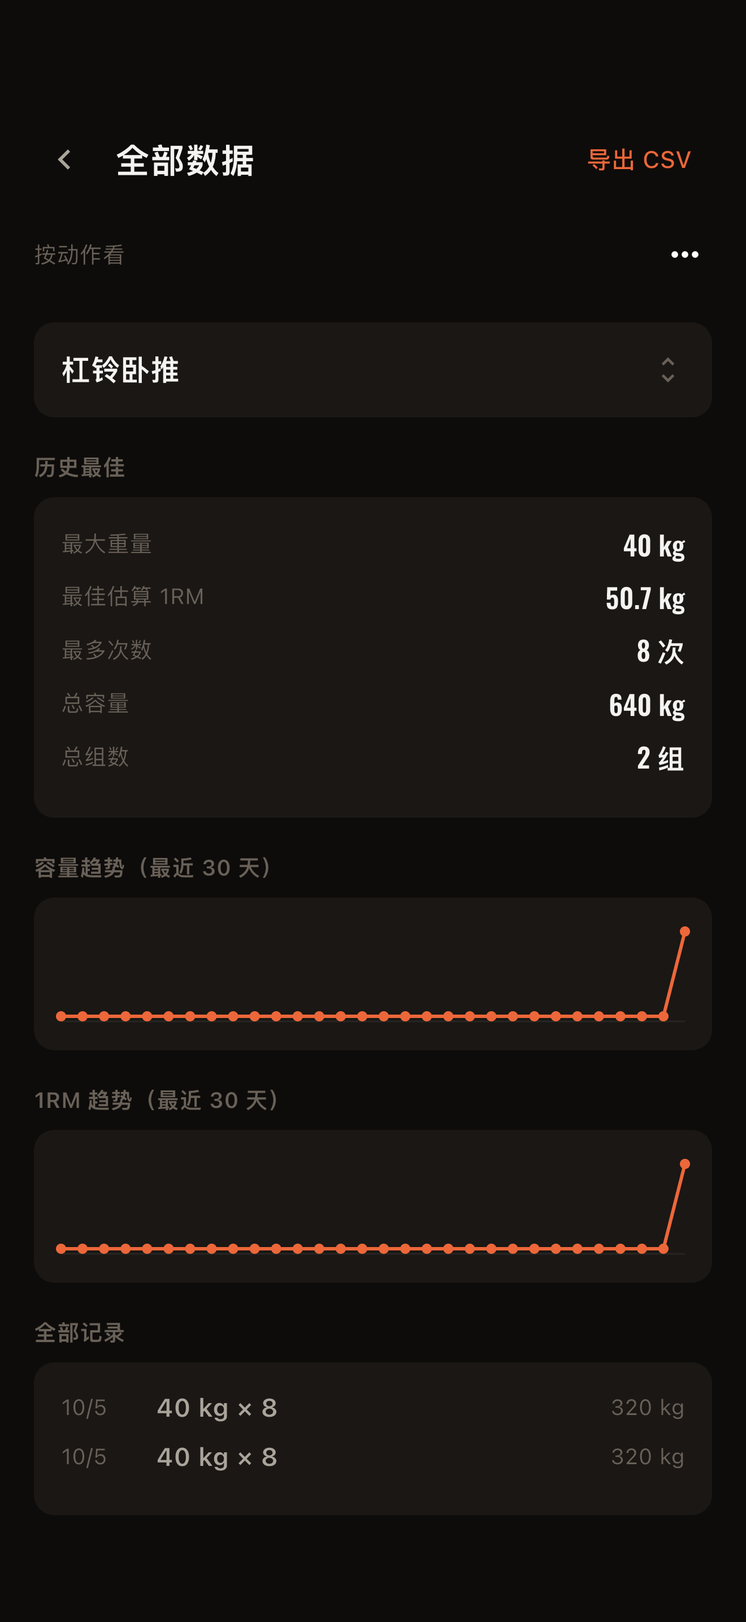
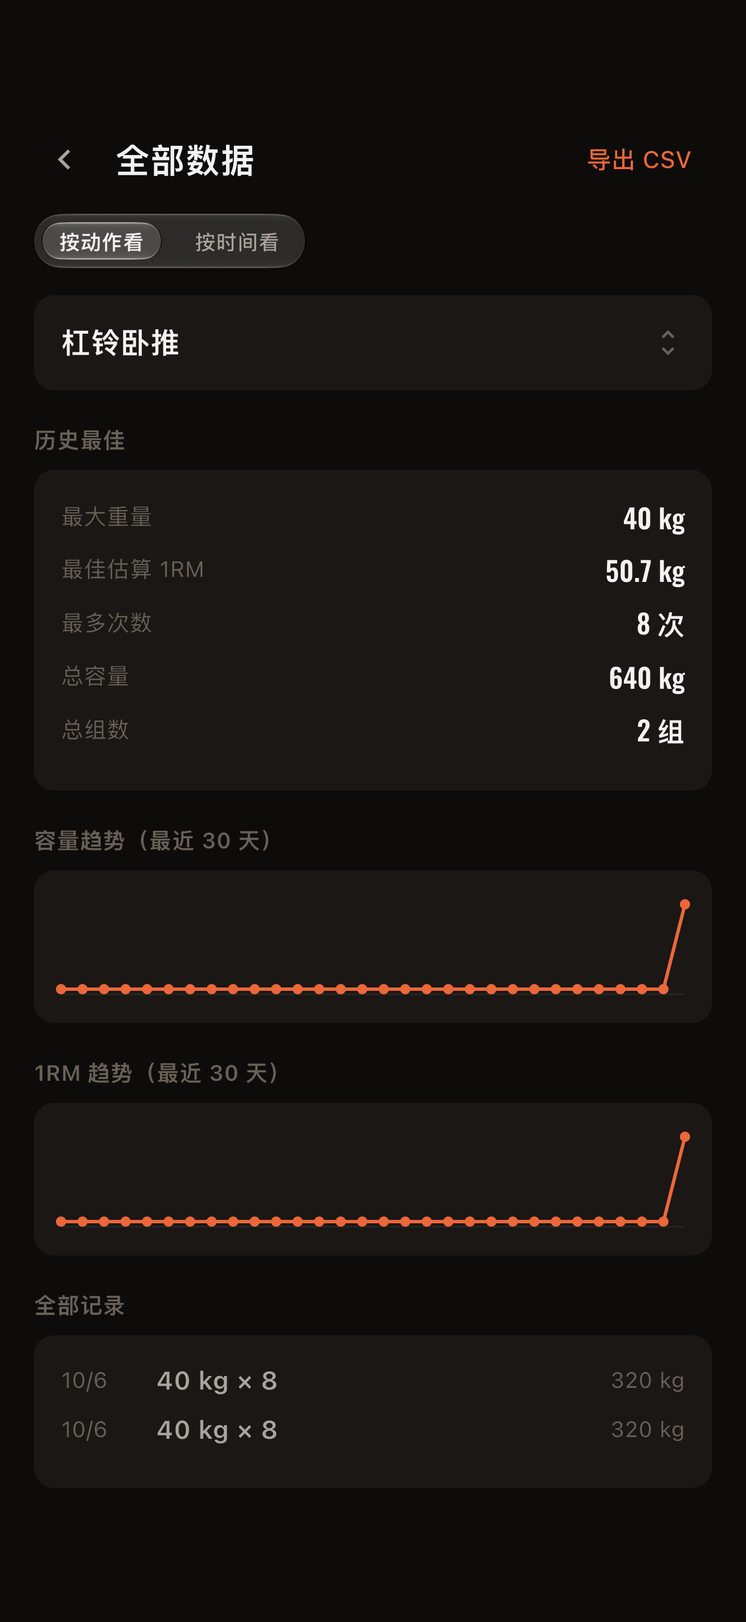
三套商店截图在 v1.54.0 上重出（起因：维度切换改成明面分段控件，安卓也变了）
* 国内 1080×2400 16 张 · Play 1080×1920 15 张 · App Store 1320×2868 15 张（过 flatten 压平）；
  三套都走"先卸载再跑"，否则引导页那一屏（商店首图）拍不到；check-screenshots 核过。
* ⚠ 记一次事故：重出脚本用 `adb devices` 的第一行取设备，而第一行是**用户真机**
  （Redmi 75caf509）—— 于是把它上面的 App **卸载了**，重装被 MIUI 的 USB 安装权限挡着
  （INSTALL_FAILED_USER_RESTRICTED）。教训写进 release-checklist 与脚本注释：
  **设备必须显式点名**。README/ROADMAP/release-checklist 里"真机装的是哪一版"三处
  也照实改成"Redmi 现在没装 + 怎么装回 + 数据用恢复码从云端取回"。

diff --git a/docs/release-checklist.md b/docs/release-checklist.md
@@ -322,7 +322,7 @@ cd .. && node tool/check-aab.mjs
 | 权限 | ✅ 源码 manifest **三项**（INTERNET + `WRITE_EXTERNAL_STORAGE` 限 API ≤29 + `POST_NOTIFICATIONS` —— 最后这条是 v1.42 的训练提醒带来的，API 33+ 走**运行时**请求、只在用户主动打开开关时问）。打包后多一条**隐含**的 `READ_EXTERNAL_STORAGE`（≤29，系统因 WRITE 授予，不是谁声明的）—— **已在政策与 `privacy-facts.json` 里逐条披露**（`privacy-audit --apk` 每次对账）。⚠ 这三条这个数字以前一直写着「两项/2 条」—— 加 `POST_NOTIFICATIONS` 那次**没同步改这里**，而 `privacy-audit` 只核「有没有披露」、不核「文档里数的是几条」，所以红不了。2026-10-05 对产物数出来才改 |
 | 隐私政策 | 🚧 中英文已成文、占位符已填；**待法务审核 + 公网 URL + 填生效日**。⚠ 云备份一旦上线，§3.1/§3.2 必须重写（数据**会**离机） |
 | 删除数据入口 | ✅ 已实现并测试。v1.22.0 补上了**条件式的云端删除**：有云备份账号时，弹层多问一句「同时删除云端备份并注销」（默认勾选），先删云端、失败则整个中止。**v1.30.0 起另有逐表核对 + 表清单守门**（`app/test/delete_all_test.dart`）：删除后除动作库外**每张表都必须是 0 行**（负向验证：把 `body_metric` 的删除拆掉 → 立刻红，报 `body_metric=1`）；库里新增/改名一张表而没更新那份清单 → 也红。这条正是删除权的失败方式：**新表忘了接，界面上看不出任何异常** |
-| 真机验证 | ✅ **iPhone 17 Pro 上跑的是 **v1.54.0**（`versionCode 69`，2026-10-06 `tool/ios-device-run.sh` 装包，正在验收液态玻璃）**。Redmi 那台**历史**上跑的是 v1.53.0（`versionCode 68`，2026-10-05 `adb install -r` 覆盖安装—— 同签名所以系统接受、数据保留；`dumpsys package` 读到 `versionName=1.52.0 / versionCode=67`，冷启动 `E/flutter` 0 条。✅ **v1.52 的界面与敏感信息同意门已在真机上走完**（详情与证据图见下面「真机 75caf509」那行）；没做的只剩「手感」那一条（只能人做）。**之前**那一版是 v1.47.0（`versionCode 66`），它**卸载重装**过一次：真 keystore 与旧包的 debug 签名不同，`install -r` 被系统直接拒（`INSTALL_FAILED_UPDATE_INCOMPATIBLE`）；冷启动无异常，`E/flutter` 0 条 / `overflowed` 0 条）。**2026-10-05 在真机上验了这一批**：① **当时的图标**（深底 + 白「练」+ volt 哑铃 —— 那是 v1.44.0 那版；**v1.45 起换成橙色圆环**）在启动器里就是它、名字「练了么」（`docs/images/launcher-icon-verified-redmi-v1440.png`）；② **卸载清空 → 用恢复码从云端取回**（这条路径此前只在模拟器上做过）：云备份页「已绑定这个恢复码」→「从云端恢复（合并，不覆盖本机）」→ **「已从云端恢复：已导入 2 次训练 / 2 组，置顶 0 个动作」**，「我」页训练统计回到 **2 次 / 2 组**（`docs/images/v144-cloud-restore-banner.png` · `docs/images/v144-cloud-restore-stats.png`）。**2026-10-04 在真机上验了这两批**：① 选择器**置顶**（钉一个 → 顶部「置顶」区 + 星标变实心 + 不再重复出现）；② **训练提醒**：打开开关 → 系统通知权限授予（`USER_SET`）→ `dumpsys alarm` 里出现 `RTC_WAKEUP …/.ReminderReceiver`（改时间时旧的那条被记为 `alarm_cancelled`）→ 到点后系统里真的出现了那条通知（`NotificationRecord … id=4702 channel=lianleme_training_reminder`，`vis=PUBLIC`）。⚠ 两次实测记下来：第一次晚 **2 分 26 秒**；第二次在**深度休眠**里被系统压住，直到**唤醒手机那一刻**才补发（非精确闹钟 + Doze 的真实行为）。⚠ **锁屏上那张图没拍到**：这台 MIUI 不渲染第三方通知（系统设置都允许，见 `docs/plan-scene-and-return.md` 的验证表）。⚠ 这一趟还**改了一处代码**：通知默认是 `VISIBILITY_PRIVATE`，安全锁屏下**整条不显示**（真机上"锁屏只有系统那条"就是这么来的）—— 提醒的价值就是"不打开 App 也看得见"，所以显式声明 `VISIBILITY_PUBLIC` 并重新出包重装。证据图 `docs/images/v142-01-reminder-permission.png` |
+| 真机验证 | ✅ **iPhone 17 Pro 上跑的是 **v1.54.0**（`versionCode 69`，2026-10-06 `tool/ios-device-run.sh` 装包，正在验收液态玻璃）**。⚠ **Redmi 那台现在没有安装**：2026-10-06 重出商店截图时脚本取设备取错了（`adb devices` 的第一台就是真机），把它上面的 App **卸载了**，而重装被 MIUI 挡着（`INSTALL_FAILED_USER_RESTRICTED`，得先在开发者选项里打开「USB 安装」）。打开后一条命令装回：`adb -s 75caf509 install -r dist/练了么-v1.54.0.apk`；本机数据用**恢复码从云端取回**（那条路 2026-10-05 已走通过）。，**历史**上跑的是（2026-10-05）v1.53.0—— 同签名所以系统接受、数据保留；`dumpsys package` 读到 `versionName=1.52.0 / versionCode=67`，冷启动 `E/flutter` 0 条。✅ **v1.52 的界面与敏感信息同意门已在真机上走完**（详情与证据图见下面「真机 75caf509」那行）；没做的只剩「手感」那一条（只能人做）。**之前**那一版是 v1.47.0（`versionCode 66`），它**卸载重装**过一次：真 keystore 与旧包的 debug 签名不同，`install -r` 被系统直接拒（`INSTALL_FAILED_UPDATE_INCOMPATIBLE`）；冷启动无异常，`E/flutter` 0 条 / `overflowed` 0 条）。**2026-10-05 在真机上验了这一批**：① **当时的图标**（深底 + 白「练」+ volt 哑铃 —— 那是 v1.44.0 那版；**v1.45 起换成橙色圆环**）在启动器里就是它、名字「练了么」（`docs/images/launcher-icon-verified-redmi-v1440.png`）；② **卸载清空 → 用恢复码从云端取回**（这条路径此前只在模拟器上做过）：云备份页「已绑定这个恢复码」→「从云端恢复（合并，不覆盖本机）」→ **「已从云端恢复：已导入 2 次训练 / 2 组，置顶 0 个动作」**，「我」页训练统计回到 **2 次 / 2 组**（`docs/images/v144-cloud-restore-banner.png` · `docs/images/v144-cloud-restore-stats.png`）。**2026-10-04 在真机上验了这两批**：① 选择器**置顶**（钉一个 → 顶部「置顶」区 + 星标变实心 + 不再重复出现）；② **训练提醒**：打开开关 → 系统通知权限授予（`USER_SET`）→ `dumpsys alarm` 里出现 `RTC_WAKEUP …/.ReminderReceiver`（改时间时旧的那条被记为 `alarm_cancelled`）→ 到点后系统里真的出现了那条通知（`NotificationRecord … id=4702 channel=lianleme_training_reminder`，`vis=PUBLIC`）。⚠ 两次实测记下来：第一次晚 **2 分 26 秒**；第二次在**深度休眠**里被系统压住，直到**唤醒手机那一刻**才补发（非精确闹钟 + Doze 的真实行为）。⚠ **锁屏上那张图没拍到**：这台 MIUI 不渲染第三方通知（系统设置都允许，见 `docs/plan-scene-and-return.md` 的验证表）。⚠ 这一趟还**改了一处代码**：通知默认是 `VISIBILITY_PRIVATE`，安全锁屏下**整条不显示**（真机上"锁屏只有系统那条"就是这么来的）—— 提醒的价值就是"不打开 App 也看得见"，所以显式声明 `VISIBILITY_PUBLIC` 并重新出包重装。证据图 `docs/images/v142-01-reminder-permission.png` |
 | **体检数据的单独同意** | ✅ v1.31.0：体重属**敏感个人信息**（医疗健康类），按 PIPL 第 29 条**单独**征求同意 —— 第一次进「身体数据」页时单独弹一次说明（只存本机/不上传/可改可删），点了才记录，点「先不用」就不进那一页；同意时刻单独落库（当时是 schema **v14**，那一列就是那一版加的）。中英政策与 `privacy-facts.json` 的 `sensitiveLocal` 同步，硬门禁**两处横查**（政策说法 ↔ 代码里那道门）|
 | 匿名统计的默认值 | ✅ **默认关闭**（v1.28.0，审计 A 的后半段）。只有用户主动到「我 → 帮助改进产品」打开才会有数据发出去；off 时连队列里没发出去的也停发；硬门禁三处对账（`privacy-facts.json` ↔ 代码默认值 ↔ 中英政策正文）。**并在设备上验过两跑**：默认（关）跑完整轮训练，应用真实库里 `pending=0`；同一流程预置成开则 `pending=11` —— 证明测量本身没坏（`integration_test/analytics_outbox_e2e_test.dart`）。**iOS 上同样两跑一致**（2026-09-30，模拟器 iOS 27.0）。⚠ 这条与下面「积压事件」那条一起，决定"配了上报地址的包"能不能发 |
 | 个人信息收集清单（164 号文） | ✅ 应用内二级菜单「我 → 关于 → 个人信息收集清单」（v1.29.0）。两份清单都是**生成物**：收集清单 ← `privacy-facts.json`，共享清单 ← 政策里的第三方 SDK 表；与应用内隐私政策共用一套生成与防漂守卫（`gen-privacy-page.mjs --check`） |
@@ -375,9 +375,9 @@ cd .. && node tool/check-aab.mjs
 | `privacy-audit.mjs --apk`（发布前必跑） | ✅ 对得上：18 事件 / 7 公共字段 / 2 声明权限 / **打包后合并 5 条**全部已披露 |
 | AAB（Google Play 通道） | ✅ `tool/check-aab.mjs "dist/练了么-v1.54.0.aab"`（**2026-10-06 在 v1.54.0 上重核**）：119 条目 · 61.8 MB（61,817,768 字节）· **三 ABI** 原生库齐全（arm64-v8a / armeabi-v7a / x86_64）· 版本 **1.54.0** 与 `app_info.dart` 一致。⚠ `flutter build appbundle` 仍会**假报** "failed to strip debug symbols"（卷名空格）并**退出码非 0**，产物没问题 —— 所以判据必须是"核产物"（`check-aab` / `check-dist`），不是看退出码。AAB 现在也放进 `dist/`，由 `tool/check-dist.mjs` 每次核版本（旧版本残留、文件名没版本号都判红）|
 | 真机 `75caf509` | **历史**：装的是 **1.53.0（versionCode 68）**（2026-10-05 用 `adb install -r` 覆盖安装 v1.52.0 release，同签名所以**数据保留**、系统没拒绝；`dumpsys package` 当场读到 `versionName=1.52.0 / versionCode=67`，冷启动无异常，`E/flutter` 0 条。✅ **并且在真机上把 v1.52 那一段走完了**（2026-10-05，`adb shell input` 这次可用）：① 打开「身体数据」→ 录体重 72.5 / 腰围 82 / 肌肉量 34.5 / 身高 176 → 保存 → **摘要卡出现且 BMI 23.4「正常」**（`docs/images/v1520-redmi-02-body-bmi.png`）；② 切到 10/4 再录 73.5 → 保存 → **趋势卡出现（10-04 → 10-05，−1.0 kg）**（`docs/images/v1520-redmi-03-body-trend.png`）；③ 点「撤回我的同意」→ 确认 → 弹层写的是 v1.52 的新文案（`docs/images/v1520-redmi-04-body-revoke.png`）；④ 再进这一页 → **单独同意那道门重新出现**，文案逐项点了「体重、体脂率、腰围、肌肉量和身高」且没有 markdown 星号（`docs/images/v1520-redmi-05-body-consent-gate.png`）；⑤ 点「同意并记录」→ **两条历史记录原样还在**（`docs/images/v1520-redmi-06-body-history-kept.png`）—— 这一步正是 PIPL 第 15 条要的：撤回的是同意、不是数据。⚠ 仍然**没验**的是手感那一条（单手够不够得着、出汗时按大按钮），那只能人做）。更早那次（v1.47.0）是覆盖安装；上一次 1.44.0 是**卸载后重装** —— 真 keystore 与旧包 debug 签名不同，`install -r` 被拒；本机数据用恢复码从云端取回，2 次训练 / 2 组回来了）（⚠ **跑过 `flutter drive` 之后必须重装一次**：截图脚本结束时会卸载 App，也会把 `wm size` 留在截图分辨率上 —— 见 `docs/dev-environment.md`）；`force-stop` 后冷启动正常、`E/flutter` **0 条**；屏幕尺寸已复位（1280×2772） |
-| 商店截图三套 | `store-assets/screenshots/` 16 张（1080×2400，国内/软著）· `screenshots-play/` 15 张（1080×1920，Play 要的 9:16）· `screenshots-ios/` 15 张（1320×2868，8 位 RGB 无 alpha）。**三套都在 2026-10-05（v1.53.0）重出了一遍**，**首图换成引导页轮播那一屏**（`00-intro`，用户拍板：商店列表第一张要回答"我能得到什么"）—— ⚠ 它只在**干净安装**那一跑拍得到，所以三套的重出都是"先卸载再跑"。此前那次是 v1.52 收尾（触发原因：v1.48–v1.52 的五个新屏没人重拍过，重跑时 15 步全红 —— 引导页轮播没被处理、身体数据页多了第二个 ListView；两条都已修，并把「转换 surface」挪到失败现场图之前；`11-body-metric` 现在记两天数据，图里有摘要卡 / BMI / 趋势卡。此前**三套是 2026-10-05 在 v1.46.0 上重出**（换新 VI 之后，上一批是 v1.42.2 拍的 —— 旧图还是 volt 绿那一版，与现在的界面不是同一个 App）：模拟器两套走 `flutter drive` + `wm size`（1080×2400 / 1080×1920），App Store 那套走 iOS 模拟器（`lianleme-69`）+ `flatten-png.mjs` 压平。⚠ 这次重出**当场撞见一个真 bug**：三个 integration test 还在点 `Key('tab-我')`，Tab 改名成「我的」之后会静默失败到「找不到控件」—— 判据是 `LIANLEME-SHOT-SUMMARY` 那行写着「失败 0 步」。（换 VI 之前那次的历史：)⚠ 触发这次重出的是**四张过期的图**（首页 / 选择器 / 计划 + 首页入口那行）—— v1.38.0 起界面改了三次而图没跟上。**这次重出跑了两轮**（第一轮白跑了）：拍完又把模板标题从 `Row` 改成 `Wrap`（第一版会把名字挤到折行），于是三套都得再拍一遍。⚠ 中间还真丢过一次：安卓那轮的新图落在无撇号的「跑道」副本里、**没及时拷回主仓库**，随后一次 `rsync --delete` 把它覆盖回旧版（iOS 那套因为是从 `/tmp` 拷的反而留下了）—— **教训：跨仓库搬产物时，`rsync` 的方向要当场确认**。齐/尺寸/夹带由 `tool/check-screenshots.mjs` 每次核对（⚠ 它只核**齐不齐、尺寸、夹带**，**核不出"内容过不过期"**） |
+| 商店截图三套 | `store-assets/screenshots/` 16 张（1080×2400，国内/软著）· `screenshots-play/` 15 张（1080×1920，Play 要的 9:16）· `screenshots-ios/` 15 张（1320×2868，8 位 RGB 无 alpha）。**三套都在 2026-10-06（v1.54.0）重出了一遍**（起因：这一版把「全部数据」页的维度切换从右上角「更多」菜单改成明面上的分段控件 —— **安卓也变了**，所以三套都得重出；iOS 那套还多了底栏/分段/单位行的液态玻璃），**首图换成引导页轮播那一屏**（`00-intro`，用户拍板：商店列表第一张要回答"我能得到什么"）；⚠ **2026-10-06 重出时那次事故**：脚本用 `adb devices` 取第一台设备，而第一台是用户真机（Redmi `75caf509`）—— 于是**把它上面的 App 卸载了**，重装又被 MIUI 的 USB 安装权限挡着。教训：**设备必须显式点名**，不许用 `adb devices` 的第一行；脚本里那次 `wm size` 也一并打在了真机上（尺寸已复位）—— ⚠ 它只在**干净安装**那一跑拍得到，所以三套的重出都是"先卸载再跑"。此前那次是 v1.52 收尾（触发原因：v1.48–v1.52 的五个新屏没人重拍过，重跑时 15 步全红 —— 引导页轮播没被处理、身体数据页多了第二个 ListView；两条都已修，并把「转换 surface」挪到失败现场图之前；`11-body-metric` 现在记两天数据，图里有摘要卡 / BMI / 趋势卡。此前**三套是 2026-10-05 在 v1.46.0 上重出**（换新 VI 之后，上一批是 v1.42.2 拍的 —— 旧图还是 volt 绿那一版，与现在的界面不是同一个 App）：模拟器两套走 `flutter drive` + `wm size`（1080×2400 / 1080×1920），App Store 那套走 iOS 模拟器（`lianleme-69`）+ `flatten-png.mjs` 压平。⚠ 这次重出**当场撞见一个真 bug**：三个 integration test 还在点 `Key('tab-我')`，Tab 改名成「我的」之后会静默失败到「找不到控件」—— 判据是 `LIANLEME-SHOT-SUMMARY` 那行写着「失败 0 步」。（换 VI 之前那次的历史：)⚠ 触发这次重出的是**四张过期的图**（首页 / 选择器 / 计划 + 首页入口那行）—— v1.38.0 起界面改了三次而图没跟上。**这次重出跑了两轮**（第一轮白跑了）：拍完又把模板标题从 `Row` 改成 `Wrap`（第一版会把名字挤到折行），于是三套都得再拍一遍。⚠ 中间还真丢过一次：安卓那轮的新图落在无撇号的「跑道」副本里、**没及时拷回主仓库**，随后一次 `rsync --delete` 把它覆盖回旧版（iOS 那套因为是从 `/tmp` 拷的反而留下了）—— **教训：跨仓库搬产物时，`rsync` 的方向要当场确认**。齐/尺寸/夹带由 `tool/check-screenshots.mjs` 每次核对（⚠ 它只核**齐不齐、尺寸、夹带**，**核不出"内容过不过期"**） |
 | 全新克隆 | ✅ `git clone` 后直接 `./verify.sh` → 六层全跑、`未发现失败`（首测 168 个 ✓；`2f66d40` 复测 753 项测试全绿、零阻塞）。见 CHANGELOG：为此加了第 0 步引导 |
-| iOS 产物 | ✅ **2026-10-05 在 v1.53.0 上核过**（`tool/ios-device-run.sh` 装到 iPhone 17 Pro：**v1.53.0 (68)** BUILD SUCCEEDED → 装上设备 → 拉起成功 → 工程自动改回；`xcrun devicectl device info apps` 当场读到设备上的 `com.sdknwdtvpv.lianleme.dev **1.53.0 / 68**`；对那次构建出来的 `Runner.app` 跑了 `check-ios-app`，逐项一致，唯一那条红仍是免费的 `.dev` bundle id —— **脚本的既定行为，别改守卫**）。**此前在 v1.47.0 上也核过**（`tool/ios-device-run.sh` 装到 iPhone 17 Pro：**v1.47.0 (66)** 装上并拉起；对那次构建出来的 `Runner.app` 跑了 `check-ios-app`）。**当时（v1.46.0）也核过**（`tool/ios-device-run.sh` 装到 iPhone 17 Pro 之后，对**那次构建出来的 Runner.app** 跑 `node tool/check-ios-app.mjs`）：应用内资产三件齐、只有「仅新增」相册权限、主题 Dark、方向锁竖屏、`sqlite3` + `objective_c` 都在、启动屏已编译进包、`Assets.car` + 2 个 AppIcon、设备族 `[1]`、隐私清单 `NSPrivacyTracking=false` + 3 类 required-reason API、`RestWidget.appex` 带 Live Activity 声明 —— **逐项与仓库里的说法一致**。⚠ 唯一那条红的是 `bundle id`：免费档真机包临时换成 `.dev`，那是**脚本的既定行为**（跑完已把工程改回 `com.sdknwdtvpv.lianleme`），不是缺陷。下表是**更早那一次**的完整记录：版本 **`1.44.0 (63)`**、显示名「练了么」、**只有「仅新增」相册权限（无读权限）**、主题 Dark、方向锁竖屏、应用内资产三件齐、`sqlite3.framework` 与 `objective_c.framework` 都在、**设备族 `[1]`（只承诺 iPhone，2026-09-30 那条「会承诺支持 iPad」的隐患已消除）**、应用级隐私清单（追踪 false + 3 类 required-reason）、**Live Activity 扩展 `RestWidget.appex` + `NSSupportsLiveActivities=true` 确实在包里**。⚠ 唯一一条红是 `bundle id 是 com.sdknwdtvpv.lianleme.dev` —— 那是**免费 Apple ID 真机装包故意改的**（见 `docs/ios-free-provisioning-guide.md`），**不要为了让守卫变绿去改守卫**。⚠ **这次顺带核出守卫自己的一个坑**：它的"自动找最新产物"原先只认 `build/ios/**`，而真机装包走的是另一个 derivedData 目录 `build/ios-dd`（`tool/ios-device-run.sh`）—— 于是它挑中了 8 小时前那份 **1.41.0 模拟器包**、报出两条假的"版本不符"，而真正最新的 1.42.3 真机包就在隔壁目录里没被看到。已把 `build/ios-dd` 加进候选（仍按修改时间取最新），现在它挑的是真产物，并且会**把磁盘上更旧的那两份点名报出来**（1.41.0 模拟器包 / 1.36.0 真机包）——"留着一份旧的"正是最容易拿去上传的那一份。工具自检（16 项产物 + 3 项出口合规，造动过手脚的 .app 要求它抓得住）在门禁第 2 层 |
+| iOS 产物 | ✅ **2026-10-06 在 v1.54.0 上核过**（`tool/ios-device-run.sh` 装到 iPhone 17 Pro：**v1.54.0 (69)** BUILD SUCCEEDED → 装上设备 → 拉起成功 → 工程自动改回；`xcrun devicectl device info apps` 当场读到设备上的 `com.sdknwdtvpv.lianleme.dev **1.54.0 / 69**`，正在验收液态玻璃）。**历史**：2026-10-05 在 v1.53.0 上核过（**v1.53.0 (68)**；对那次构建出来的 `Runner.app` 跑了 `check-ios-app`，逐项一致，唯一那条红仍是免费的 `.dev` bundle id —— **脚本的既定行为，别改守卫**）。**此前在 v1.47.0 上也核过**（`tool/ios-device-run.sh` 装到 iPhone 17 Pro：**v1.47.0 (66)** 装上并拉起；对那次构建出来的 `Runner.app` 跑了 `check-ios-app`）。**当时（v1.46.0）也核过**（`tool/ios-device-run.sh` 装到 iPhone 17 Pro 之后，对**那次构建出来的 Runner.app** 跑 `node tool/check-ios-app.mjs`）：应用内资产三件齐、只有「仅新增」相册权限、主题 Dark、方向锁竖屏、`sqlite3` + `objective_c` 都在、启动屏已编译进包、`Assets.car` + 2 个 AppIcon、设备族 `[1]`、隐私清单 `NSPrivacyTracking=false` + 3 类 required-reason API、`RestWidget.appex` 带 Live Activity 声明 —— **逐项与仓库里的说法一致**。⚠ 唯一那条红的是 `bundle id`：免费档真机包临时换成 `.dev`，那是**脚本的既定行为**（跑完已把工程改回 `com.sdknwdtvpv.lianleme`），不是缺陷。下表是**更早那一次**的完整记录：版本 **`1.44.0 (63)`**、显示名「练了么」、**只有「仅新增」相册权限（无读权限）**、主题 Dark、方向锁竖屏、应用内资产三件齐、`sqlite3.framework` 与 `objective_c.framework` 都在、**设备族 `[1]`（只承诺 iPhone，2026-09-30 那条「会承诺支持 iPad」的隐患已消除）**、应用级隐私清单（追踪 false + 3 类 required-reason）、**Live Activity 扩展 `RestWidget.appex` + `NSSupportsLiveActivities=true` 确实在包里**。⚠ 唯一一条红是 `bundle id 是 com.sdknwdtvpv.lianleme.dev` —— 那是**免费 Apple ID 真机装包故意改的**（见 `docs/ios-free-provisioning-guide.md`），**不要为了让守卫变绿去改守卫**。⚠ **这次顺带核出守卫自己的一个坑**：它的"自动找最新产物"原先只认 `build/ios/**`，而真机装包走的是另一个 derivedData 目录 `build/ios-dd`（`tool/ios-device-run.sh`）—— 于是它挑中了 8 小时前那份 **1.41.0 模拟器包**、报出两条假的"版本不符"，而真正最新的 1.42.3 真机包就在隔壁目录里没被看到。已把 `build/ios-dd` 加进候选（仍按修改时间取最新），现在它挑的是真产物，并且会**把磁盘上更旧的那两份点名报出来**（1.41.0 模拟器包 / 1.36.0 真机包）——"留着一份旧的"正是最容易拿去上传的那一份。工具自检（16 项产物 + 3 项出口合规，造动过手脚的 .app 要求它抓得住）在门禁第 2 层 |
 | 软著材料 | `dist/copyright/` 里是 **V1.54.0**：源程序 **248 个文件 / 65,859 行 / 全文 1318 页**、提交用前 30 + 后 30 页（正好 60 页）、说明书 6 页；著作权人已按 `--owner "李松"` 生成（与 **ICP 备案主体**、**keystore 的 `CN=李松`** 同一个名字）。⚠ **提交前请确认这个名字与身份证一致** —— 不一致就重跑一次 `node tool/copyright-pdf.mjs --owner "你的姓名"`（改名只影响页脚，一分钟的事）。⚠ **这三个数字由 `node tool/copyright-pdf.mjs --check-docs` 每次对账**（源文件/行数/页数任意一处漂了就红 —— 它已经抓过两次：加完守卫源码变多、改动后页数变多） |
 | 界面文案 | ✅ **2026-10-04 全量审计**（判据与逐条清单见 `docs/copy.md`）：删/收 **20 处**"解释性语言"，分布 7 个文件；两类可机械判的漏字（`开发者`、`号文`）已进 `tool/check-user-text.mjs`（13 条自检）。⚠ **半可执行**：另外三类（复述标题 / 科普 / 替人操心）**没有机械判据**，只能照判据人读 —— 这一点写在 `docs/copy.md` 第四节，不要当成"有守卫就万事大吉"。真机三张图：`docs/images/v144-prefs-copy-trimmed.png`（偏好设置）、`docs/images/v145-data-tools-no-subtitle.png`（数据与备份）、`docs/images/v144-privacy-copy.png`（隐私与关于）。⚠ 这三张图的名字里写着 `v144-` / `v145-`，那是**当时打算切的版本号**，后来这批文案改动并进了 v1.42.5 / v1.43.0 的同版追加 —— **v1.44.0 真正对应的是「换图标」那一版**。文件名不改（改了就成孤儿图），但别拿它当版本指路 |
 

diff --git a/ROADMAP.md b/ROADMAP.md
@@ -24,7 +24,7 @@
 |---|---|---|---|
 | **0** | 钉住工程：git + CI 真跑起来 | ✅ 完成 | — |
 | **1** | 数据活过重启（接 drift） | ✅ 完成（**真机已验证**：覆盖安装后冷启动读回 12 组） | — |
-| **2** | 装到真机 | ✅ **已装 `v1.54.0`**（`versionCode 69`）—— **iPhone 已装**（2026-10-06，正在验收液态玻璃：底栏/分段/单位行 + 按压水滴融合）；Redmi 那台**历史装的是 v1.53.0**（`versionCode 68`，2026-10-05 覆盖安装；**之前**那版是 `v1.47.0` / `versionCode 66`）。2026-10-05 在 v1.52.0 上走完了身体数据这一整段（录入 / BMI 摘要卡 / 趋势卡 / 撤回同意 / 那道门重新出现 / 同意后历史没丢，证据图 `docs/images/v1520-redmi-0*.png`）。2026-10-04 覆盖安装 + 冷启动冒烟：首页正常渲染、**`E/flutter` 0 条 / `overflowed` 0 条**。**在真机上验了两处改动**：① 首页「今天的安排」卡带 `›`、点它进建议卡（`docs/images/home-v140.png` / `suggestion-via-card-v140.png`）；② 选择器的**置顶**（钉一个动作 → 顶部出现「置顶」区、星标变实心、**且该动作不再在下面重复出现**，`docs/images/picker-pinned-v141.png`）。⚠ ②那条**真机上一眼就发现了单测没盖住的漏网**（见 `CHANGELOG.md` v1.42.2）：置顶的动作同时在「最近做过」里出现了一次 —— 修完重新出包、重新装、重新看图确认。⚠ **"老数据完好"这一条这次没法验**：设备上本来就没有训练数据 —— `firstInstallTime` 是 **2026-10-01**，比 9-30 那次走查更晚，那批数据是当时重装没的，**不是本次升级丢的**（`install -r` 保留数据） | — |
+| **2** | 装到真机 | ✅ **已装 `v1.54.0`**（`versionCode 69`）—— **iPhone 已装**（2026-10-06，正在验收液态玻璃：底栏/分段/单位行 + 按压水滴融合）。⚠ **Redmi 那台现在没有安装**：2026-10-06 重出商店截图时脚本取设备取错了（`adb devices` 的第一台就是真机），把它上面的 App **卸载了**，而重装被 MIUI 挡着（`INSTALL_FAILED_USER_RESTRICTED`，得先在开发者选项里打开「USB 安装」）。打开后一条命令装回：`adb -s 75caf509 install -r dist/练了么-v1.54.0.apk`；本机数据用**恢复码从云端取回**（那条路 2026-10-05 已走通过）。。2026-10-05 在 v1.52.0 上走完了身体数据这一整段（录入 / BMI 摘要卡 / 趋势卡 / 撤回同意 / 那道门重新出现 / 同意后历史没丢，证据图 `docs/images/v1520-redmi-0*.png`）。2026-10-04 覆盖安装 + 冷启动冒烟：首页正常渲染、**`E/flutter` 0 条 / `overflowed` 0 条**。**在真机上验了两处改动**：① 首页「今天的安排」卡带 `›`、点它进建议卡（`docs/images/home-v140.png` / `suggestion-via-card-v140.png`）；② 选择器的**置顶**（钉一个动作 → 顶部出现「置顶」区、星标变实心、**且该动作不再在下面重复出现**，`docs/images/picker-pinned-v141.png`）。⚠ ②那条**真机上一眼就发现了单测没盖住的漏网**（见 `CHANGELOG.md` v1.42.2）：置顶的动作同时在「最近做过」里出现了一次 —— 修完重新出包、重新装、重新看图确认。⚠ **"老数据完好"这一条这次没法验**：设备上本来就没有训练数据 —— `firstInstallTime` 是 **2026-10-01**，比 9-30 那次走查更晚，那批数据是当时重装没的，**不是本次升级丢的**（`install -r` 保留数据） | — |
 | **3** | **自己去练一次**（带手机去健身房） | ⬜ 未开始（真机走查已做：有氧记录 / 单位切换 / 升级迁移都确认过） | 只能人做 |
 | **4** | 铺 UI 屏 | ✅ **S1–S13 全部落地**（S15 已并入 S10） | S14 未做（需支付基建，已明确砍掉） |
 | **5** | **正式**可用性测试（5 人） | 🟡 **2026-10-05 降级为"建议做、不阻塞上架"**：`tap_count` 的门槛改由**熟人短测**定（3–5 个熟人、每人 5 分钟、半天做完，口径见 `docs/usability-test-kit.md` §A） | 你（短测占半天）。这 5 场仍建议做 —— 它答的是短测答不了的（T1 是否 90 秒零提示 / Q3 选谁 / 对照差值） |

diff --git a/README.md b/README.md
@@ -393,7 +393,7 @@ analysis server exited with code 255
 
 | 缺什么 | 为什么 | 影响 |
 |---|---|---|
-| 🚧 **真机交互验收** | 真机上装的是 **v1.54.0**（`versionCode 69`）—— **iPhone 已装**（`tool/ios-device-run.sh`，2026-10-06，正在验收液态玻璃）；Redmi 那台**历史装的是 v1.53.0**（`versionCode 68`，2026-10-05 `adb install -r` 覆盖安装、同签名所以数据保留、冷启动正常），本版**只改 iOS**（Android 与 v1.53.0 逐像素相同），要覆盖安装随时 `adb install -r dist/练了么-v1.54.0.apk`。✅ **2026-10-05 在真机上把 v1.52 那一段走完了**：录体重 / 腰围 / 肌肉量 / 身高 → 摘要卡与 **BMI** 出现 → 再录一天 → **趋势卡**出现 → 「撤回我的同意」→ 弹层是新文案 → 再进这一页 **单独同意那道门重新出现** → 点同意 → **历史一条没丢**（证据图 `docs/images/v1520-redmi-0*.png`）。再往前那次是 v1.47.0 **卸载重装**、冷启动正常 —— 真 keystore 与旧包的 debug 签名不同，`install -r` 被系统拒，只能卸载；本机数据用**恢复码从云端取回**了，2 次训练 / 2 组）。**自动化那半已经做完了**（2026-09-30 手机解锁当天跑的）：`adb shell input` 注入走了一遍 冷启动 → 一次点击记一组（→ 休息计时起跳）→ 总结（320 kg）→ 进步 → 我 → **杀进程重开数据还在**，`E/flutter` 与 `overflowed` 都是 0，证据图在 `docs/images/walkthrough-0*.png`。**剩下的是"真的用手指走一遍"** —— 手感、误触、单手可达性、出汗时按大按钮 | 六层门禁全绿；**这一条只剩人类判断**（自动化走的是输入层，不是手感）—— **这是最大的一条** |
+| 🚧 **真机交互验收** | 真机上装的是 **v1.54.0**（`versionCode 69`）—— **iPhone 已装**（`tool/ios-device-run.sh`，2026-10-06，正在验收液态玻璃）。⚠ **Redmi 那台现在没有安装**：2026-10-06 重出商店截图时脚本取设备取错了（`adb devices` 的第一台就是真机），把它上面的 App **卸载了**，而重装被 MIUI 挡着（`INSTALL_FAILED_USER_RESTRICTED`，得先在开发者选项里打开「USB 安装」）。打开后一条命令装回：`adb -s 75caf509 install -r dist/练了么-v1.54.0.apk`；本机数据用**恢复码从云端取回**（那条路 2026-10-05 已走通过）。✅ **2026-10-05 在真机上把 v1.52 那一段走完了**：录体重 / 腰围 / 肌肉量 / 身高 → 摘要卡与 **BMI** 出现 → 再录一天 → **趋势卡**出现 → 「撤回我的同意」→ 弹层是新文案 → 再进这一页 **单独同意那道门重新出现** → 点同意 → **历史一条没丢**（证据图 `docs/images/v1520-redmi-0*.png`）。再往前那次是 v1.47.0 **卸载重装**、冷启动正常 —— 真 keystore 与旧包的 debug 签名不同，`install -r` 被系统拒，只能卸载；本机数据用**恢复码从云端取回**了，2 次训练 / 2 组）。**自动化那半已经做完了**（2026-09-30 手机解锁当天跑的）：`adb shell input` 注入走了一遍 冷启动 → 一次点击记一组（→ 休息计时起跳）→ 总结（320 kg）→ 进步 → 我 → **杀进程重开数据还在**，`E/flutter` 与 `overflowed` 都是 0，证据图在 `docs/images/walkthrough-0*.png`。**剩下的是"真的用手指走一遍"** —— 手感、误触、单手可达性、出汗时按大按钮 | 六层门禁全绿；**这一条只剩人类判断**（自动化走的是输入层，不是手感）—— **这是最大的一条** |
 | ✅ ~~v1 → v2 迁移的真机验证~~（已在真机过） | 真机里原本是 `v1.0.0` 留下的**老库**，直接覆盖安装 `v1.2.0`（`schemaVersion` 1 → 3）后，`onUpgrade` 跑完、**数据一条没丢**（冷启动读回 12 组） | 这是"老库升级必须真机过一次"的实测通过 |
 | 🚧 **分享卡的交付** | 生成与交付都已实现（`share_plus` + `gal`），但分享面板与相册写入依赖平台通道 | 测试覆盖不到，只能真机跑 |
 | ❌ **发布签名** | 目前只有 debug key；release 签名要生成 keystore 并妥善保管（不能进仓库） | 商店不接受 debug 签名的包 |

diff --git a/docs/screenshots.md b/docs/screenshots.md
@@ -58,7 +58,7 @@ flutter drive --driver=test_driver/screenshot_driver.dart \
 
 产物写进 `store-assets/screenshots/`（**入库**：它是交付物，不是 `dist/` 那种构建产物）。
 
-> ⚠ **2026-10-05（v1.53.0）三套又重出过一遍**，起因是用户拍板"**商店首图换成引导页那张**"：
+> ⚠ **2026-10-06（v1.54.0）三套又重出过一遍** —— 起因是「全部数据」页的维度切换改成了明面上的分段控件（**安卓也变**），iOS 那套还多了液态玻璃。此前 **2026-10-05（v1.53.0）** 重出过一次，起因是用户拍板"**商店首图换成引导页那张**"：
 > 脚本在跳过轮播之前先截下它（`00-intro`），三套图都在**干净安装**那一跑重出
 > （安卓两套走模拟器、App Store 走 iOS 模拟器 + 压平），张数 15/14/14 → **16/15/15**。
 > 踩到的两件事记在这里，免得下次重新踩：①**安卓模拟器跑久了会僵**（黑屏、App 渲染不出来 →
@@ -306,7 +306,7 @@ adb shell cmd uimode night no    # 若原来是自动/夜间，按原值改回
   （商店那几屏里夹一张对话框反而不好看），是留给软著说明书与合规自查的证据：
   一条证"同意是单独征得的"，一条证"同意随时可以撤回"（`**` 那类漏字只有截图看得见）。
 - **App Store 那套（`store-assets/screenshots-ios/`）是 15 张**：上面那 13 屏 + 同意门 +
-  撤回入口，尺寸 1320×2868，来源是 iPhone 17 Pro Max 模拟器（**2026-10-05 在 v1.53.0 上重出**：
+  撤回入口，尺寸 1320×2868，来源是 iPhone 17 Pro Max 模拟器（**2026-10-06 在 v1.54.0 上重出**：
   干净安装那一跑，15 张 / 0 步失败。此前那次是 2026-10-01 在 v1.34.0 上：14 张，第一次跑中途
   有 6 步连败、**重跑一次全绿** —— 那是模拟器/App 状态的一次性问题，不是脚本坏了），
   **出完图立刻压平**（16 位 RGBA → 8 位 RGB）。它没有 `01b` —— 模拟器那一跑本身就是全新安装
